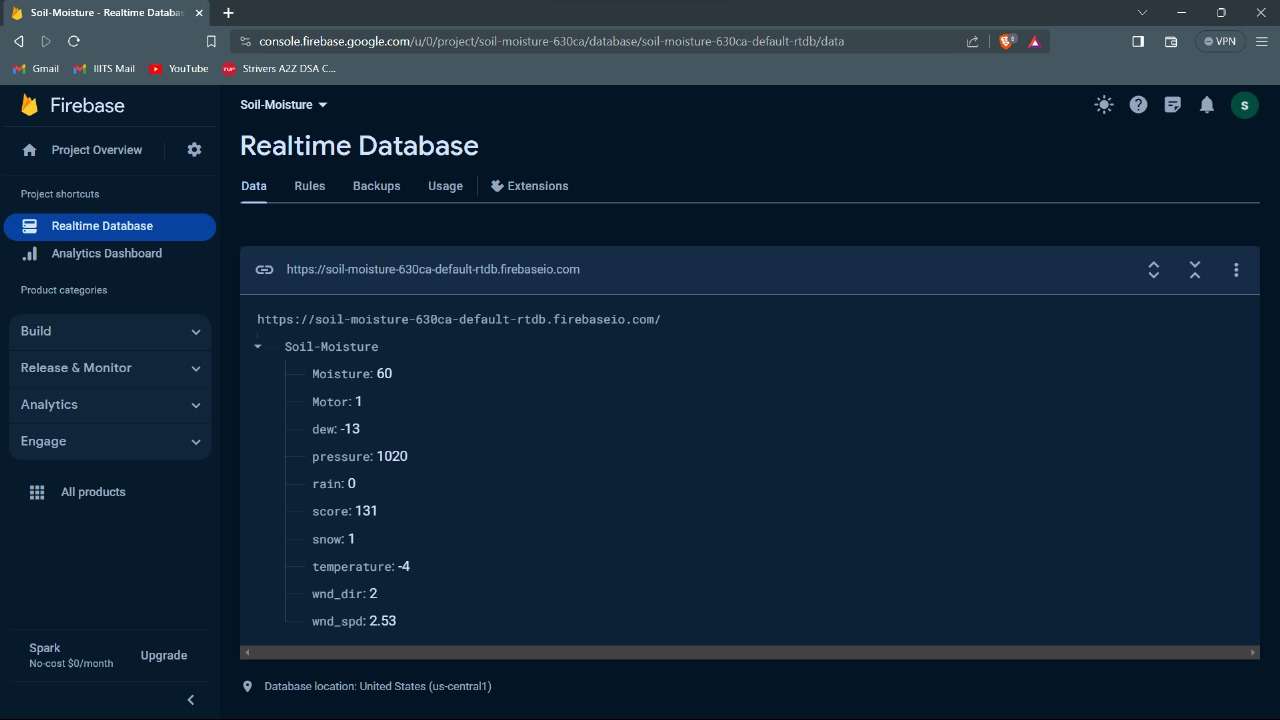
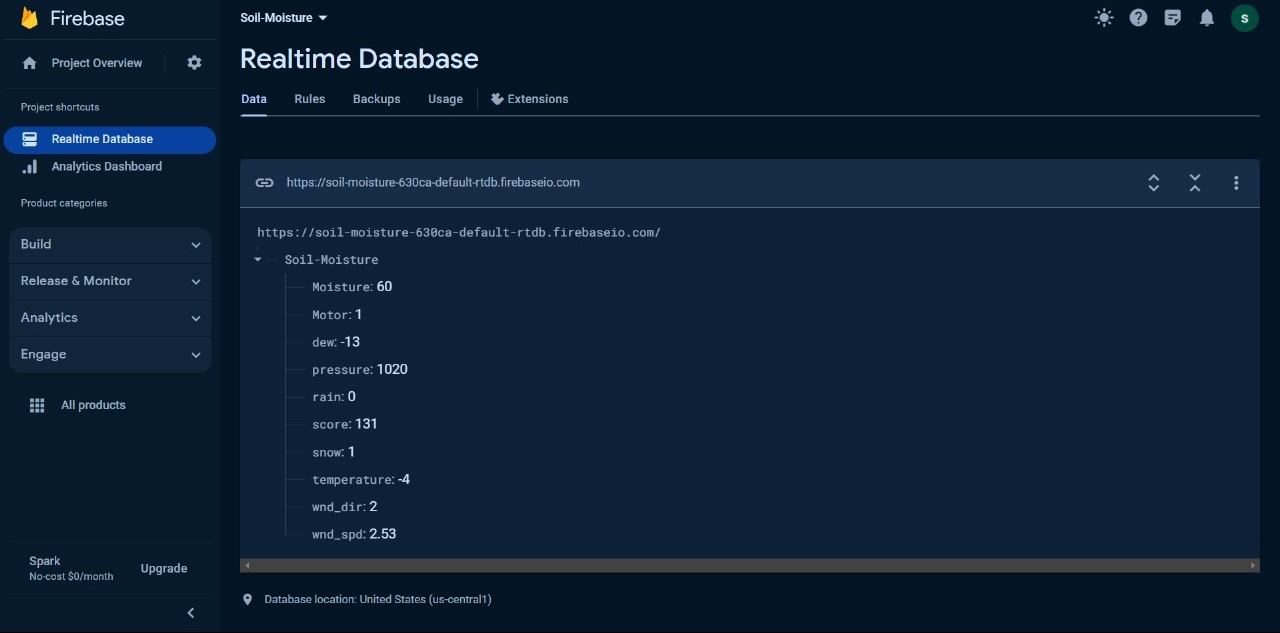
revised readme

diff --git a/README.md b/README.md
@@ -13,7 +13,7 @@ The project involves the following components:
 
 - **Firebase**: Data collected from the sensors is stored in Firebase, providing a cloud-based storage solution.
 <div align="center">
-<img src="image/README/Database.jpg" width="30%" />
+<img src="image/README/Database.jpg" width="70%" />
 </div>
 
 - **Mobile App**: An Android app built with MiT App Inventor allows users to view and interact with the data collected from the sensors.
